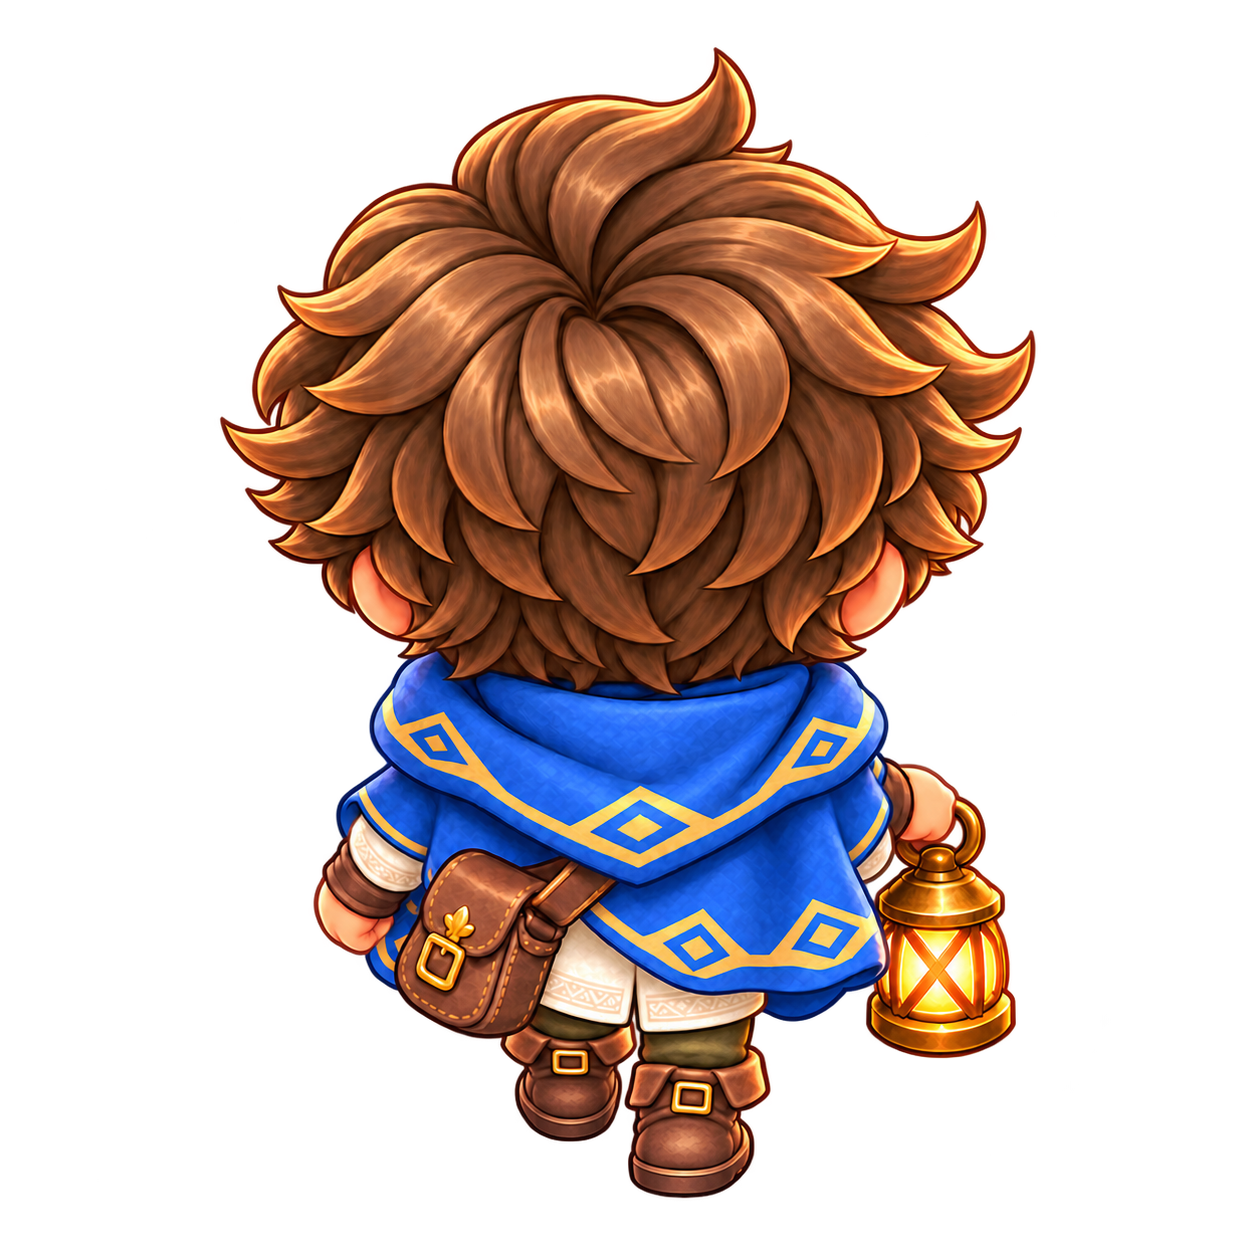
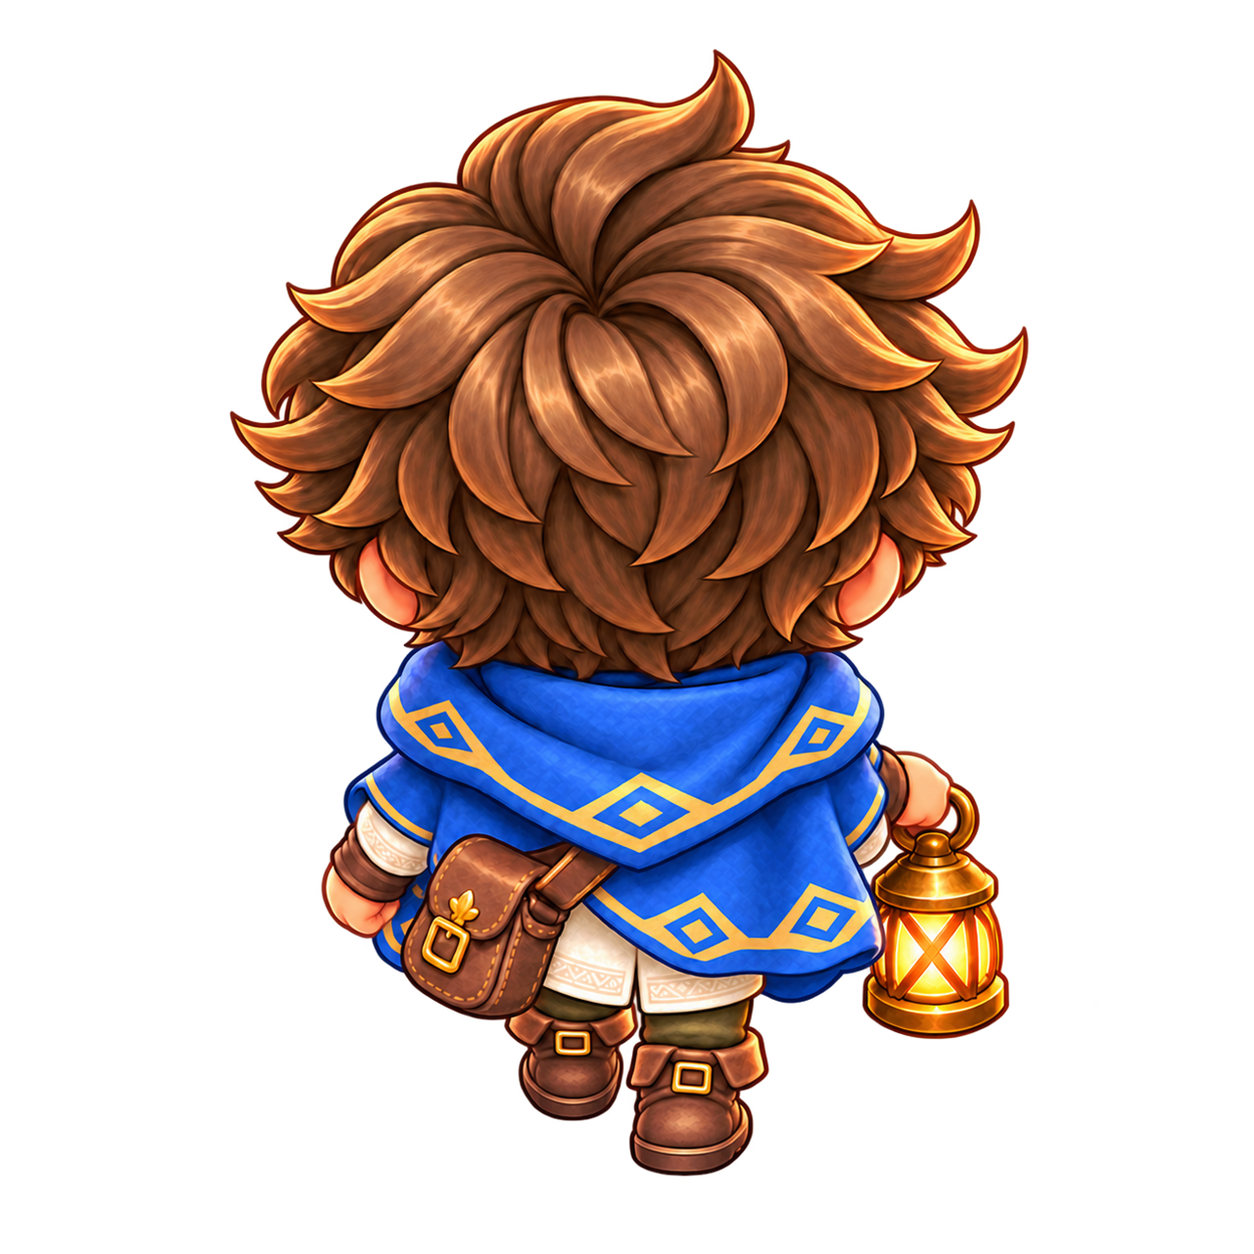
fix(assets): 남녀 걷기 프레임의 보이는 크기 통일
Plan: 2026-10-02-corner-turn-and-walk-frame-size
Phase: P01-turn-and-sprite-stability
Task: T02-normalize-player-walk-assets

- 남녀 네 방향 걷기 PNG의 발 기준선과 몸 높이 정렬
- PNG 내부 그림 범위 검사기 추가

Changed region(s): [[0.1555, 0.0311, 0.8397, 0.9641]]

diff --git a/.memory/phases/2026-10-02-corner-turn-and-walk-frame-size/P01-turn-and-sprite-stability/T02-normalize-player-walk-assets.md b/.memory/phases/2026-10-02-corner-turn-and-walk-frame-size/P01-turn-and-sprite-stability/T02-normalize-player-walk-assets.md
@@ -1,0 +1,105 @@
+# Task: T02 남녀 걷기 이미지 크기 안정화
+
+## Status: done
+
+## Goal
+
+남녀 캐릭터 네 방향의 걷기 A/B PNG 16개에서 캐릭터가 기본 이미지보다 커졌다 작아졌다 보이는 문제를 제거한다. 발 위치와 보이는 몸 높이를 맞추면서 두 걷기 자세와 제자리 걷기를 유지한다.
+
+## Decision Summary
+
+- 수정 대상은 `girl`·`boy` × `front`·`back`·`left`·`right` × `walk-a`·`walk-b`의 16개 PNG다. 각 방향의 기본 PNG는 변경하지 않고 크기·발 기준선 참조로 사용한다.
+- 1254×1254 투명 캔버스, 캐릭터의 얼굴·의상·색·소품 및 서로 다른 걷기 자세를 보존한다. `PlayerSprite`의 1.6칸 표시 크기나 게임 이동·충돌 규칙은 바꾸지 않는다.
+
+## Implementation
+
+### I01. 원본 비교와 걷기 PNG 16개 교정
+
+- Related Files:
+  - `public/assets/players/player-girl-front-walk-a.png`, `public/assets/players/player-girl-front-walk-b.png` — 여자 정면 걷기; modify
+  - `public/assets/players/player-girl-back-walk-a.png`, `public/assets/players/player-girl-back-walk-b.png` — 여자 뒷모습 걷기; modify
+  - `public/assets/players/player-girl-left-walk-a.png`, `public/assets/players/player-girl-left-walk-b.png` — 여자 왼쪽 걷기; modify
+  - `public/assets/players/player-girl-right-walk-a.png`, `public/assets/players/player-girl-right-walk-b.png` — 여자 오른쪽 걷기; modify
+  - `public/assets/players/player-boy-front-walk-a.png`, `public/assets/players/player-boy-front-walk-b.png` — 남자 정면 걷기; modify
+  - `public/assets/players/player-boy-back-walk-a.png`, `public/assets/players/player-boy-back-walk-b.png` — 남자 뒷모습 걷기; modify
+  - `public/assets/players/player-boy-left-walk-a.png`, `public/assets/players/player-boy-left-walk-b.png` — 남자 왼쪽 걷기; modify
+  - `public/assets/players/player-boy-right-walk-a.png`, `public/assets/players/player-boy-right-walk-b.png` — 남자 오른쪽 걷기; modify
+  - `public/assets/players/player-{girl,boy}-{front,back,left,right}.png` — 각 걷기 이미지의 크기·발 기준선 참조 8개; read-only
+  - `src/assets/assetManifest.ts` :: `playerSprites`, `playerWalkSprites` — 방향과 파일 이름 매핑; read-only
+  - `src/components/Player/PlayerSprite.tsx` :: `PlayerSprite`, `PLAYER_SPRITE_SCALE` — 동일 상자에서 기본·걷기 PNG 교체; read-only
+
+#### Details
+
+- **Signatures & Types**:
+  ```typescript
+  type Appearance = 'girl' | 'boy'
+  type AssetSide = 'front' | 'back' | 'left' | 'right'
+  type WalkFrame = 'a' | 'b'
+  // base: player-${Appearance}-${AssetSide}.png
+  // target: player-${Appearance}-${AssetSide}-walk-${WalkFrame}.png
+  ```
+- **Data & Schema Fields**: 8개 기본·16개 걷기 PNG는 모두 현재 1254×1254, 8비트 RGBA, 투명 배경이다. 새 자산 경로·게임 상태·API·저장 필드는 없다. `playerWalkSprites`의 기존 경로가 수정된 파일을 그대로 참조하게 한다.
+- **Execution Flow / Logic**:
+  1. Precondition & Validation: 각 세트의 기본·걷기 A/B 원본을 `view_image`로 비교하고 실제 불투명 그림 범위와 발 높이를 기록한다. 여자 정면은 기존 조사에서 보이는 높이가 기본 1011px, A 1033px, B 1084px이므로 교정이 필요한 사례다. 원본 Git 버전이 남아 있으므로 실패한 결과는 채택하지 않는다.
+  2. Image Editing: `imagegen` 스킬의 내장 `image_gen` 편집 도구를 사용한다. **걷기 PNG 하나당 한 번** 호출하고 해당 걷기 파일을 편집 대상, 같은 인물·방향의 기본 PNG를 크기·발 위치 참조로 전달한다. `transparent_background: true`로 배경 알파를 유지한다. 프롬프트의 고정 조건은 “기존 얼굴·헤어·의상·등불·색·윤곽·걷기 발 자세를 보존하고, 캐릭터 전체의 보이는 높이와 바닥에 닿는 발 기준선만 기본 PNG와 맞춘다. 배경은 완전 투명, 추가 요소·글자 없음”이다.
+  3. Canvas Normalization: 생성물이 1254×1254가 아니거나 내부 여백이 맞지 않으면 투명 1254×1254 캔버스에 **균일 비율**로만 맞춰 넣는다. 최종 알파 그림의 높이가 같은 세트의 기본 그림 높이와 같도록 비율을 계산하고, 최종 알파 그림의 아래쪽 끝을 기본 그림의 아래쪽 끝에 맞춘다. 수평 중심은 기본 그림 중심에 맞춘다. 가로·세로를 다른 배율로 늘리지 않는다. 이 기계적 리샘플링은 .NET `System.Drawing` 또는 동급의 로컬 이미지 도구로 수행하며 Python 이미지 편집은 사용하지 않는다.
+  4. Review & Replacement: 각 결과를 기본·A·B와 나란히 검사한다. 얼굴이나 소품이 바뀌거나, 두 발 자세가 같아지거나, 흰 배경·거친 가장자리·잘린 부분이 생기면 그 결과를 교체하지 않고 해당 프레임만 다시 편집한다. 통과한 결과만 기존 16개 대상 경로에 저장한다. `assetManifest.ts`·기본 PNG·구출 동물 PNG는 수정하지 않는다.
+  5. State Transition & Return: 이미지 파일만 교체되므로 `PlayerSprite`의 걷기 프레임 선택과 장애물 앞 제자리 걷기 상태 전이는 현재 코드 그대로다.
+
+### I02. PNG 내부 그림 크기 검사기
+
+- Related Files:
+  - `scripts/check-player-frame-bounds.mjs` :: `readPngAlphaBounds`, `paethPredictor`, `checkFramePair` — 16개 걷기 PNG의 실제 그림 범위 검증; new
+  - `src/components/MazeBoard/MazeBoard.test.tsx` :: 막힌 여자 정면과 네 방향 제자리 걷기 테스트 — 런타임 교체 동작 회귀; read-only
+
+#### Details
+
+- **Signatures & Types**:
+  ```javascript
+  /** @typedef {{ width: number, height: number, left: number, top: number, right: number, bottom: number, visibleHeight: number }} AlphaBounds */
+  /** @param {number} left @param {number} above @param {number} upperLeft @returns {number} */
+  function paethPredictor(left, above, upperLeft) {}
+  /** @param {string} filePath @returns {AlphaBounds} */
+  function readPngAlphaBounds(filePath) {}
+  /** @param {'girl'|'boy'} appearance @param {'front'|'back'|'left'|'right'} side @param {'a'|'b'} frame @returns {boolean} */
+  function checkFramePair(appearance, side, frame) {}
+  ```
+- **Data & Schema Fields**: `AlphaBounds`의 좌표는 1254×1254 캔버스에서 알파가 16 이상인 픽셀의 최소·최대 x/y이다. `visibleHeight = bottom - top + 1`이다. 파일이나 로그 외의 영속 스키마는 없다.
+- **Execution Flow / Logic**:
+  1. `node:fs`로 PNG 서명과 IHDR을 확인하고 폭·높이 1254, bit depth 8, color type 6(RGBA), interlace 0을 요구한다. IDAT 청크를 이어 `node:zlib.inflateSync`으로 풀고 PNG 행 필터 0~4(None/Sub/Up/Average/Paeth)를 4 bytes-per-pixel로 복원한다. 형식이 잘못되거나 알파 픽셀이 없으면 명시적으로 실패한다. 새 npm 패키지를 설치하지 않는다.
+  2. 8개 기본 이미지 각각에 대해 걷기 A/B의 `visibleHeight` 차이가 기본 높이의 1% 이내인지, `bottom` 차이가 8px 이내인지 검사한다. PNG 네 모서리는 알파 0이어야 한다. A/B가 바이트 단위로 동일하면 발 자세가 사라진 것으로 보고 실패한다. 각 파일의 높이·bottom·기본 대비 차이를 표로 출력하고 하나라도 실패하면 프로세스 종료 코드를 1로 한다.
+  3. 검사기는 투명 여백과 발 기준선의 **기하학적 차이**만 잡는다. 얼굴·의상·걷기 발 자세의 동일성은 I01의 사람 눈 비교로 확인한다. 기존 DOM 테스트는 `<img>`와 표시 상자의 크기만 확인하므로 이 검사기를 대신하지 못한다.
+
+## Acceptance Criteria
+
+- [x] 걷기 PNG 16개 모두 1254×1254의 투명 RGBA이며 기본 PNG 대비 보이는 높이 차이 1% 이내, 아래쪽 기준선 차이 8px 이내다.
+- [x] 남녀 네 방향 각각에서 기본·A·B 전환 시 몸 크기가 튀지 않고 A/B의 서로 다른 걷기 자세가 보인다.
+- [x] 원래 캐릭터 디자인과 소품, 기존 이미지 경로, 1.6칸 표시 상자, 막힌 상태 제자리 걷기와 정상 이동 애니메이션이 유지된다.
+- [x] 이미지 검사기와 기존 게임 테스트·빌드가 통과한다.
+
+## Validation
+
+- `node scripts/check-player-frame-bounds.mjs` — 기본 8개와 걷기 16개의 PNG 구조·실제 높이·아래쪽 기준선·A/B 구분 검사 통과.
+- `npm.cmd test -- --run src/components/MazeBoard/MazeBoard.test.tsx src/components/GameScreen/GameScreen.test.tsx` — 막힌 상태와 정상 이동의 PNG 선택 및 제자리 걷기 회귀 통과.
+- `npm.cmd test -- --run` — 전체 회귀 통과.
+- `npm.cmd run build` — 타입 검사와 PNG 포함 번들 통과.
+- `view_image`로 8세트의 기본·A·B를 직접 비교하고, 브라우저가 연결되면 아래쪽 장애물 앞 여자 캐릭터와 남녀 네 방향의 연속 제자리 걷기를 실제 게임 크기에서 확인한다. 브라우저가 없으면 미실시를 기록한다.
+
+## Commit Message
+
+```text
+fix(assets): 남녀 걷기 프레임의 보이는 크기 통일
+
+Plan: 2026-10-02-corner-turn-and-walk-frame-size
+Phase: P01-turn-and-sprite-stability
+Task: T02-normalize-player-walk-assets
+
+- 남녀 네 방향 걷기 PNG의 발 기준선과 몸 높이 정렬
+- PNG 내부 그림 범위 검사기 추가
+```
+
+## Progress
+
+- [x] 구현 완료: 기존 16개 중 기준을 벗어난 7개 PNG만 원본 그림을 균일 비율로 축소하고 발 기준선에 정렬. `image_gen` 시안은 얼굴·등불 세부가 변형되어 채택하지 않음.
+- [x] 검증 통과: PNG 검사 16/16, 지정 테스트 35개, 전체 테스트 133개, 빌드, 8세트 직접 이미지 비교. 연결된 브라우저가 없어 실제 게임 화면 검사는 미실시.
+- commit: Git 기록 참조
